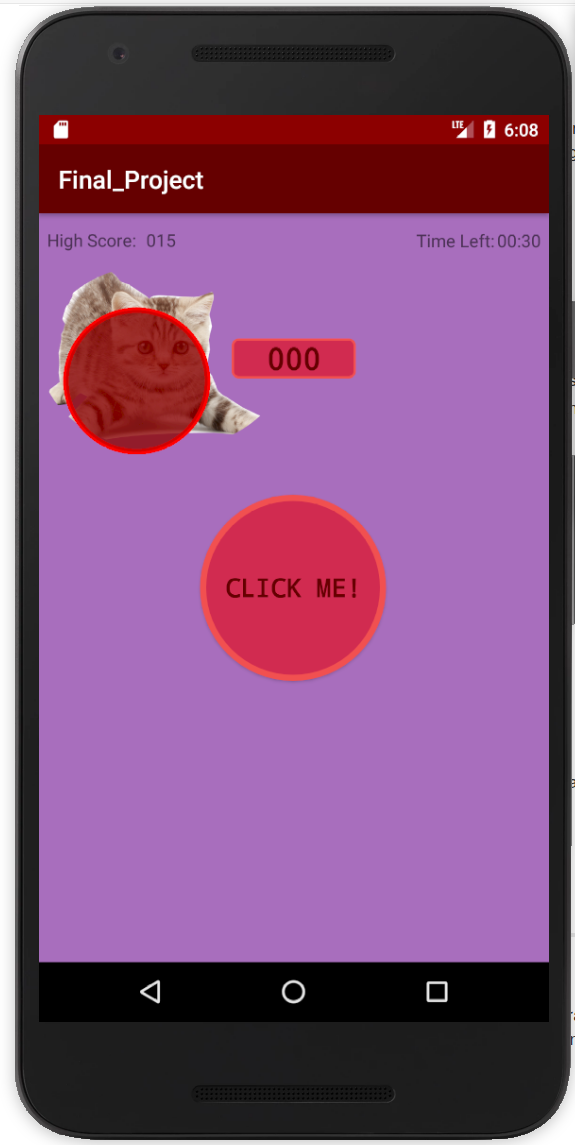
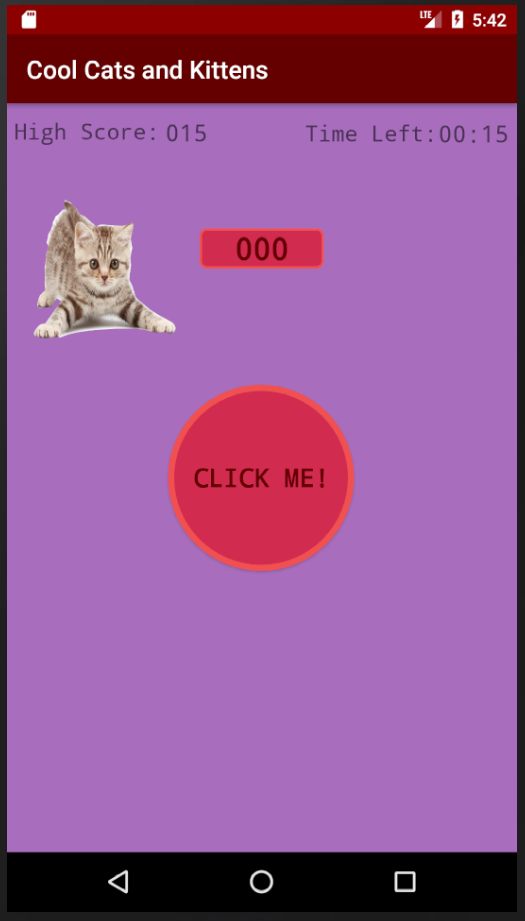
Added pictures for README

diff --git a/README.md b/README.md
@@ -38,17 +38,13 @@ During these trying times, everyone is looking to get their mind off the quarant
 ![](output/score_increase.png)
 3. The game will also remember your highest score:
 ![](output/high_score.png)
-4. Also as the user clicks the center button `CLICK ME!` the 3 shapes move around the screen:
+4. Also as the user clicks the center button `CLICK ME!` the kitty will move around the screen:
 ![](output/shapes_move01.png)
 ![](output/shapes_move02.png)
 ![](output/shapes_move03.png)
-5. At different stages in the game funny or silly messages popup, once again to facilitate the empytying of your mind:
+5. At different stages in the game funny or silly messages popup, once again to facilitate the emptying of your mind:
 ![](output/silly_message01.png)
-![](output/silly_message02.png)
-6. At different stages of the game the user will be attacked by cats, the user has to slap (i.e. swipe) them away.
-![](output/cat_attack.png)
-7. Finally the game ends when the user runs out of time. At which point the phone will shake and make a loud beeping sound to wake you from your mindless state:
-![](output/end_game.png)
+7. Finally the game ends when the user runs out of time. At which point the phone will shake, make a loud beeping sound, and link you to a random google gif/image to wake you from your mindless state:
 
 ---
 
